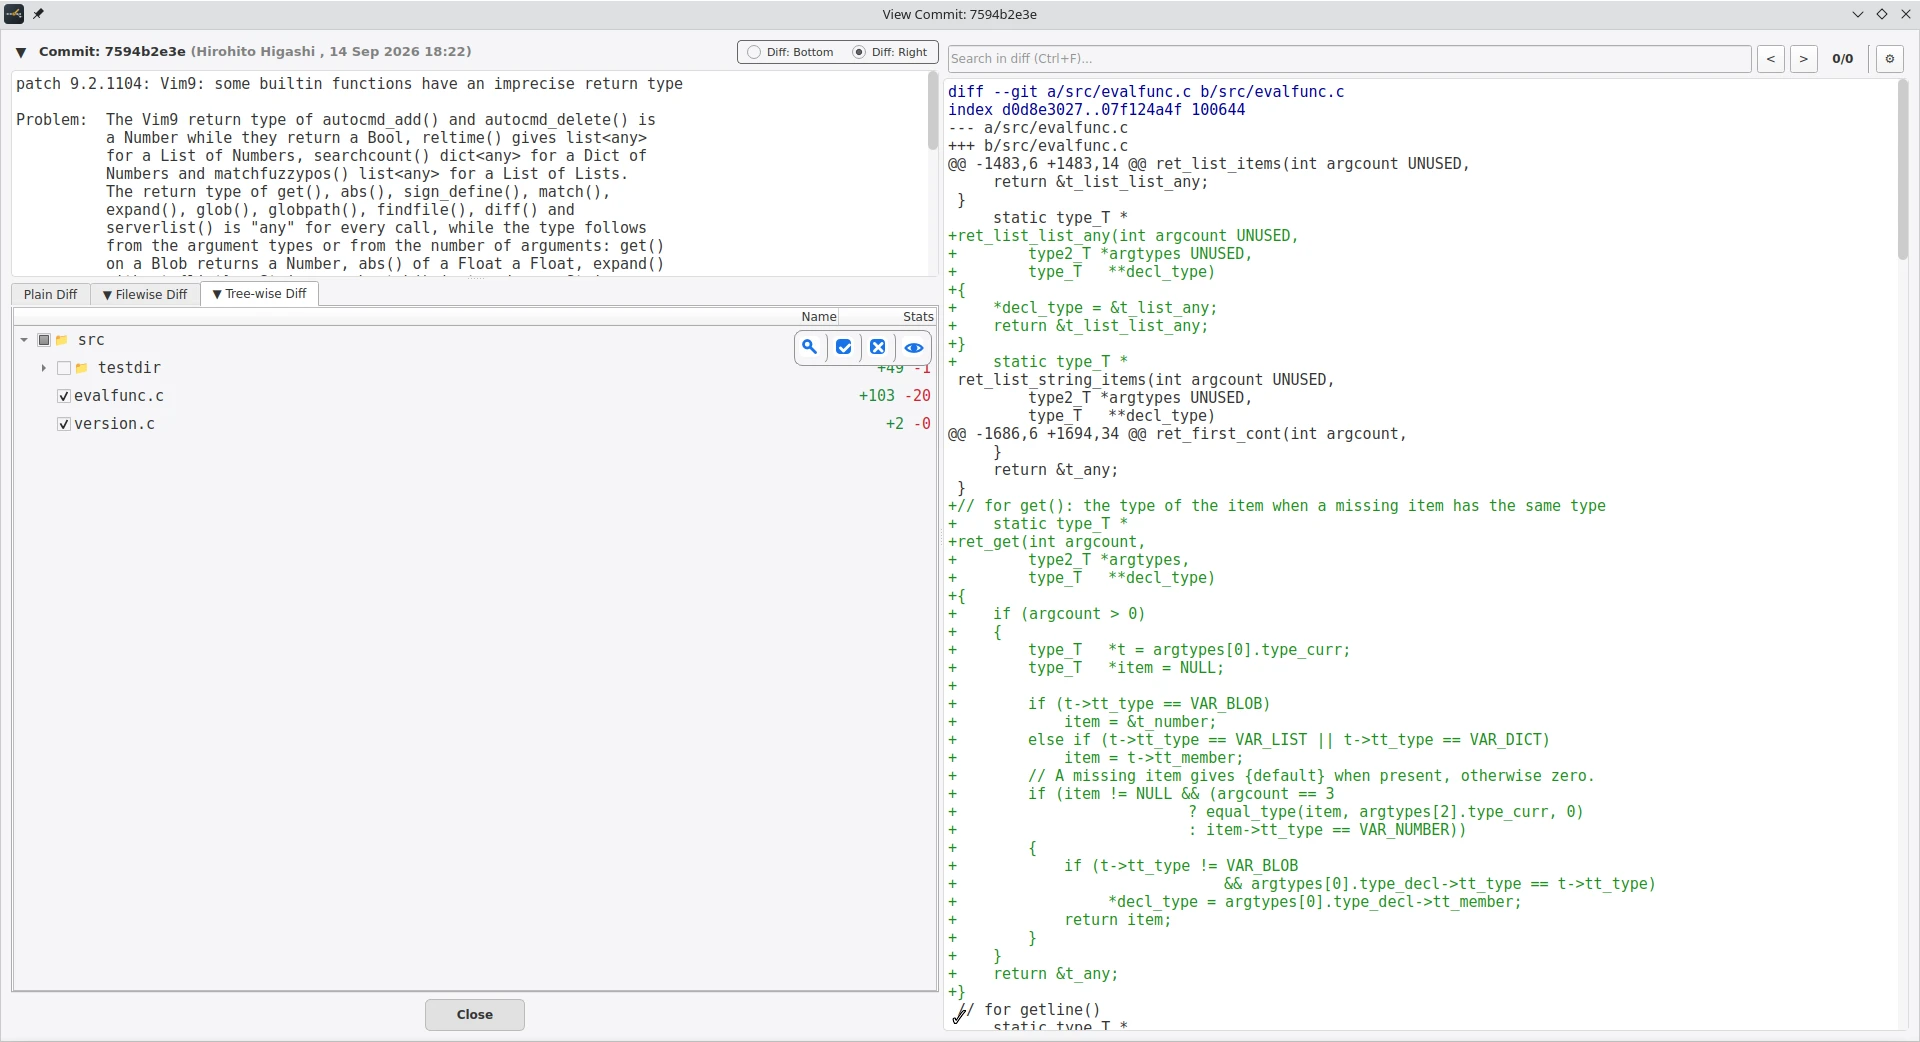
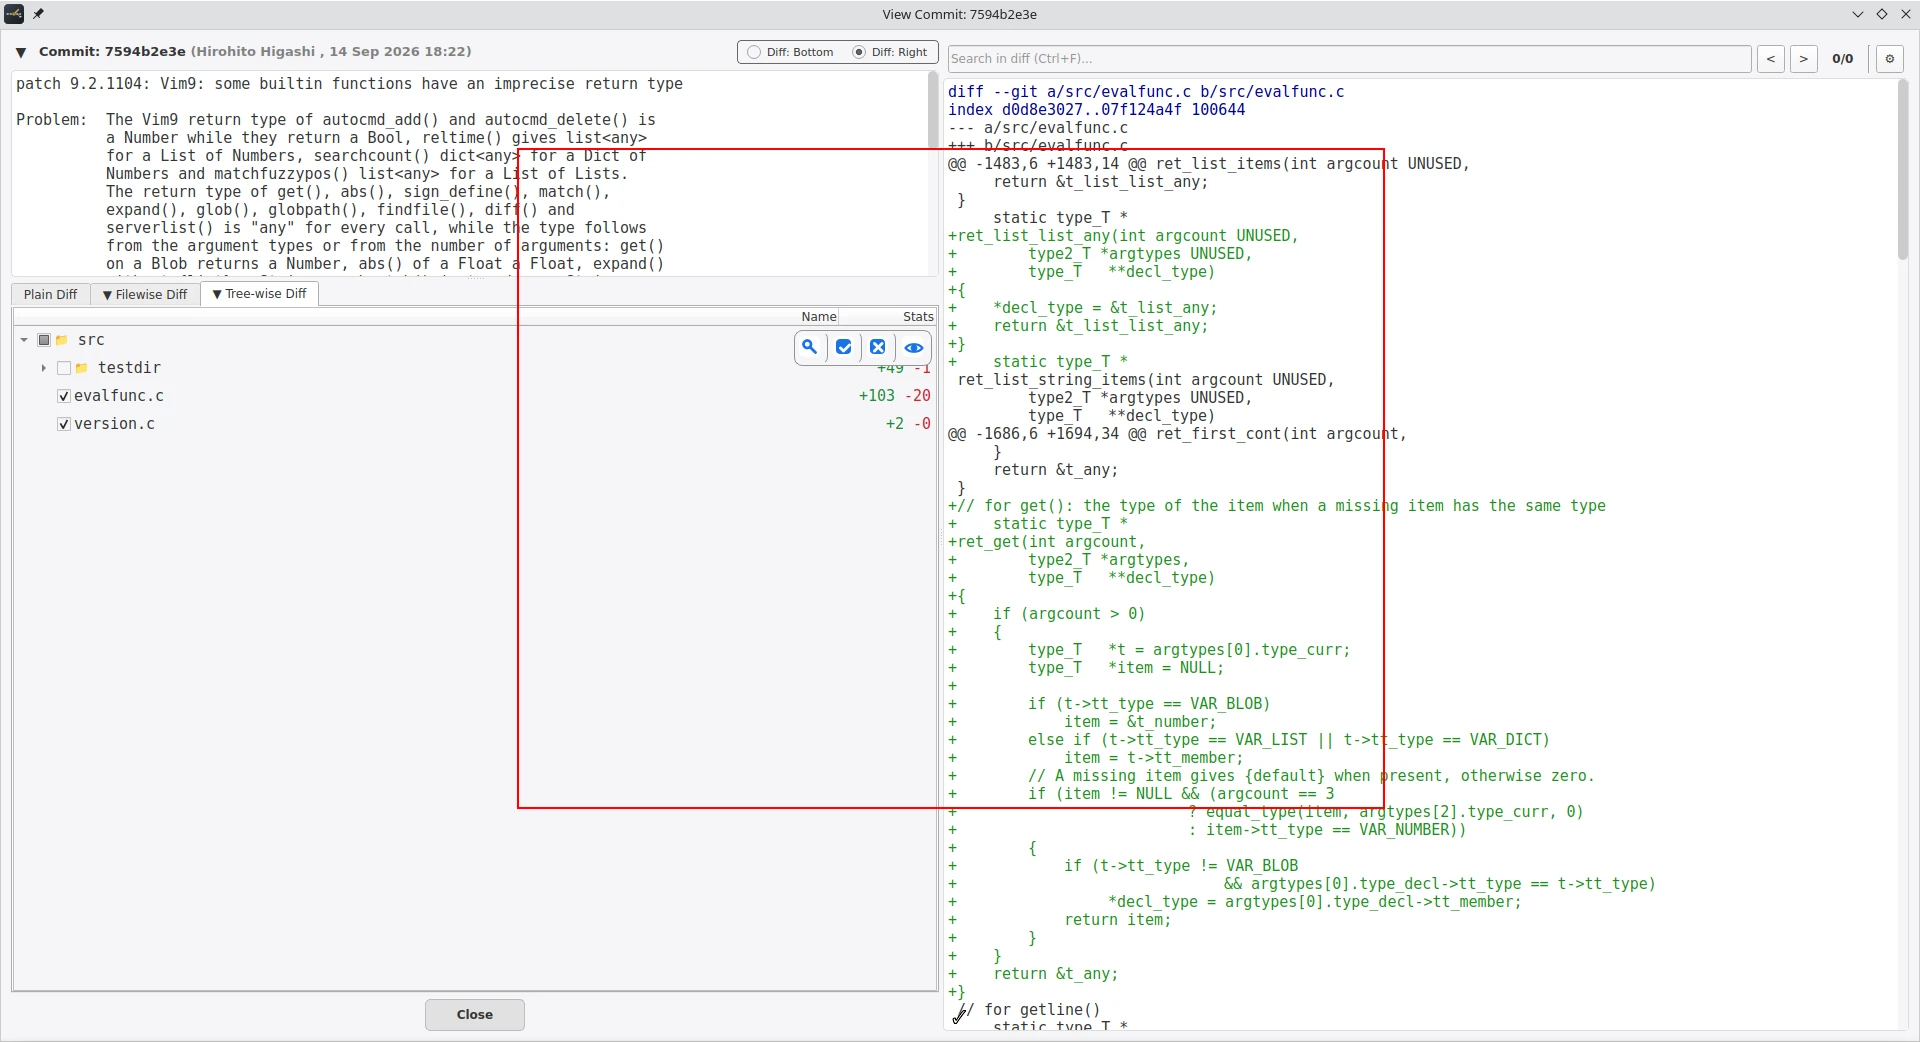
capture: plain-file-tree-diff.webp, diff-at-right-pane.webp

Changed region(s): [[0.2812, 0.7678, 0.7188, 0.7985]]

diff --git a/scenes/plain-file-tree-diff.py b/scenes/plain-file-tree-diff.py
@@ -116,7 +116,7 @@ def main():
             description="launched with HEAD~13: 13 newest commits, HEAD row selected, Plain Diff",
             size=(1920, 1042),
         )
-        img.draw_box(BOXES)
+        img.draw_box(BOXES2)
         img.save("diff-at-right-pane.png")
         tool.sleep(.2)
 
